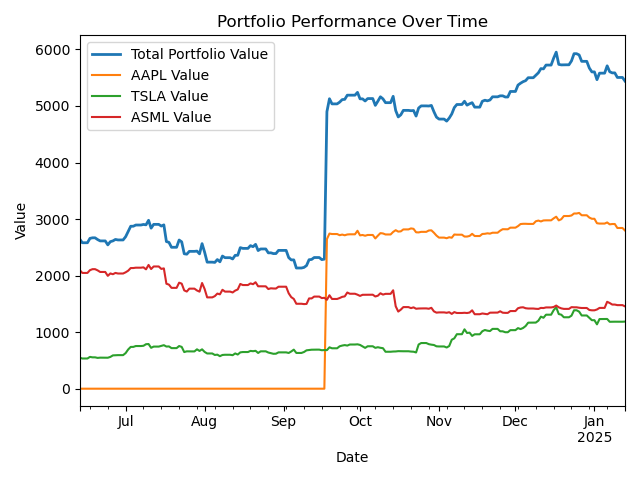
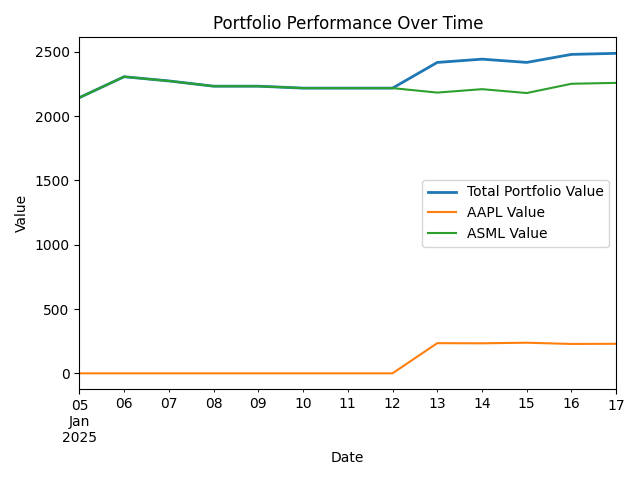
fix bug with no closing price for today

diff --git a/app/templates/portfolio_tracker.html b/app/templates/portfolio_tracker.html
@@ -29,14 +29,16 @@
     </div>
     {% if holdings %}
     <div class ="row1"></div>
-        <h2>Live Portfolio Value</h2>
+        <h2>Live Portfolio Value (updates every 5s)</h2>
         <p id="liveValue" class="live-value">${{ live_value }}</p>
     </div>
     {% else %}
     <p>No holdings available.</p>
     {% endif %}
 
-    <a href="{{ url_for('add_transaction') }}">Add a New Transaction</a>
+    <div style="text-align: center; margin-top: 20px;">
+        <button class="add-transaction-btn" onclick="location.href='/add_transaction'">Add Transaction</button>
+    </div>
 
     <script src="https://cdn.jsdelivr.net/npm/chart.js"></script>
     <script>

diff --git a/app/templates/base.html b/app/templates/base.html
@@ -21,6 +21,25 @@
     font-weight: bold;
 }
 
+.add-transaction-btn {
+        background-color: #4CAF50; /* Green */
+        border: none;
+        color: white;
+        padding: 10px 20px;
+        text-align: center;
+        text-decoration: none;
+        display: inline-block;
+        font-size: 16px;
+        margin: 10px 2px;
+        cursor: pointer;
+        border-radius: 5px;
+        transition: background-color 0.3s ease;
+    }
+
+    .add-transaction-btn:hover {
+        background-color: #45a049; /* Darker green on hover */
+    }
+
 /* Animation keyframes for green flash */
 @keyframes flash-green {
     0% { background-color: #e6ffe6; }

diff --git a/app/portfolio_analyzer.py b/app/portfolio_analyzer.py
@@ -68,12 +68,15 @@ class PortfolioAnalyzer:
             # Calculate portfolio value for the current date
             portfolio_value = 0
             for stock, qty in holdings.items():
-                if stock in historical_data and current_date in historical_data[stock].index:
-                    historical_price = historical_data[stock].loc[current_date]
-                    portfolio_value += qty * historical_price
-                    self.portfolio_df.loc[current_date, stock] = qty
-                    # Update latest value
-                    latest_values[stock] = qty * historical_price
+                if stock in historical_data:
+                    # Get the last known price
+                    available_data = historical_data[stock][historical_data[stock].index <= current_date]
+                    if not available_data.empty:
+                        last_closing_price = available_data.iloc[-1]  # Use the most recent available price
+                        portfolio_value += qty * last_closing_price
+                        self.portfolio_df.loc[current_date, stock] = qty
+                        # Update latest value
+                        latest_values[stock] = qty * last_closing_price
 
             if portfolio_value > 0:
                 self.portfolio_df.loc[current_date, "Portfolio Value"] = portfolio_value
